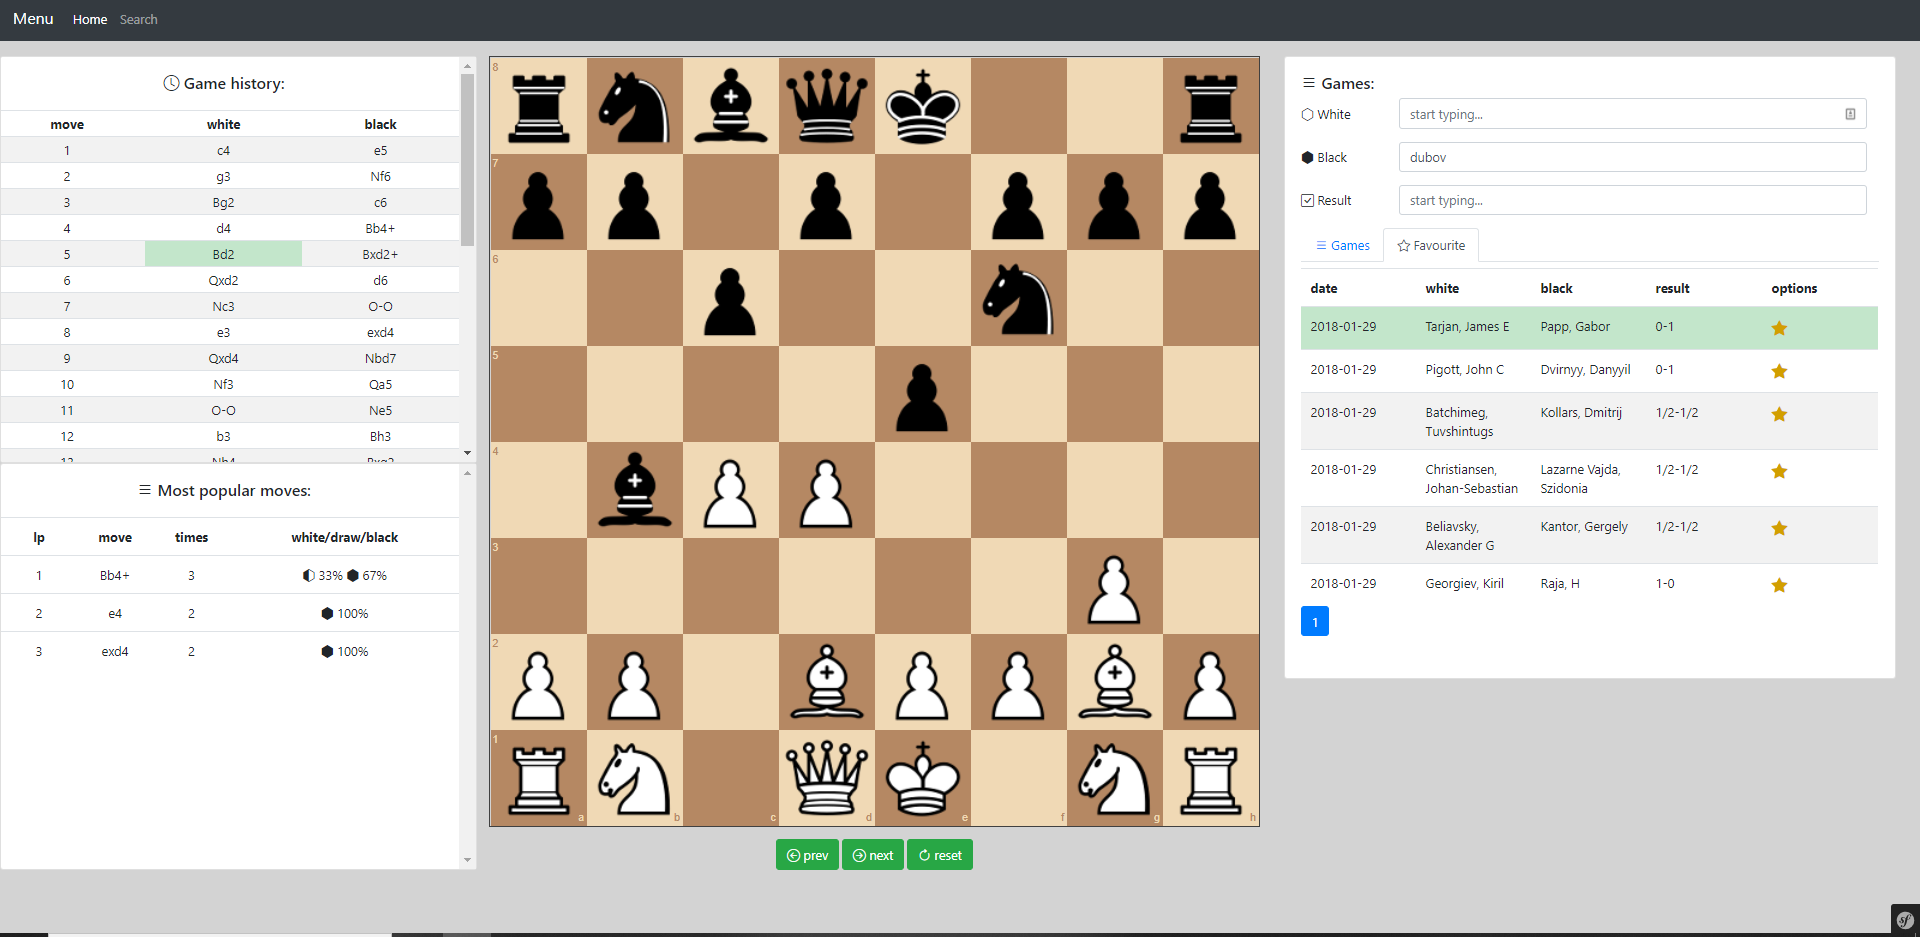
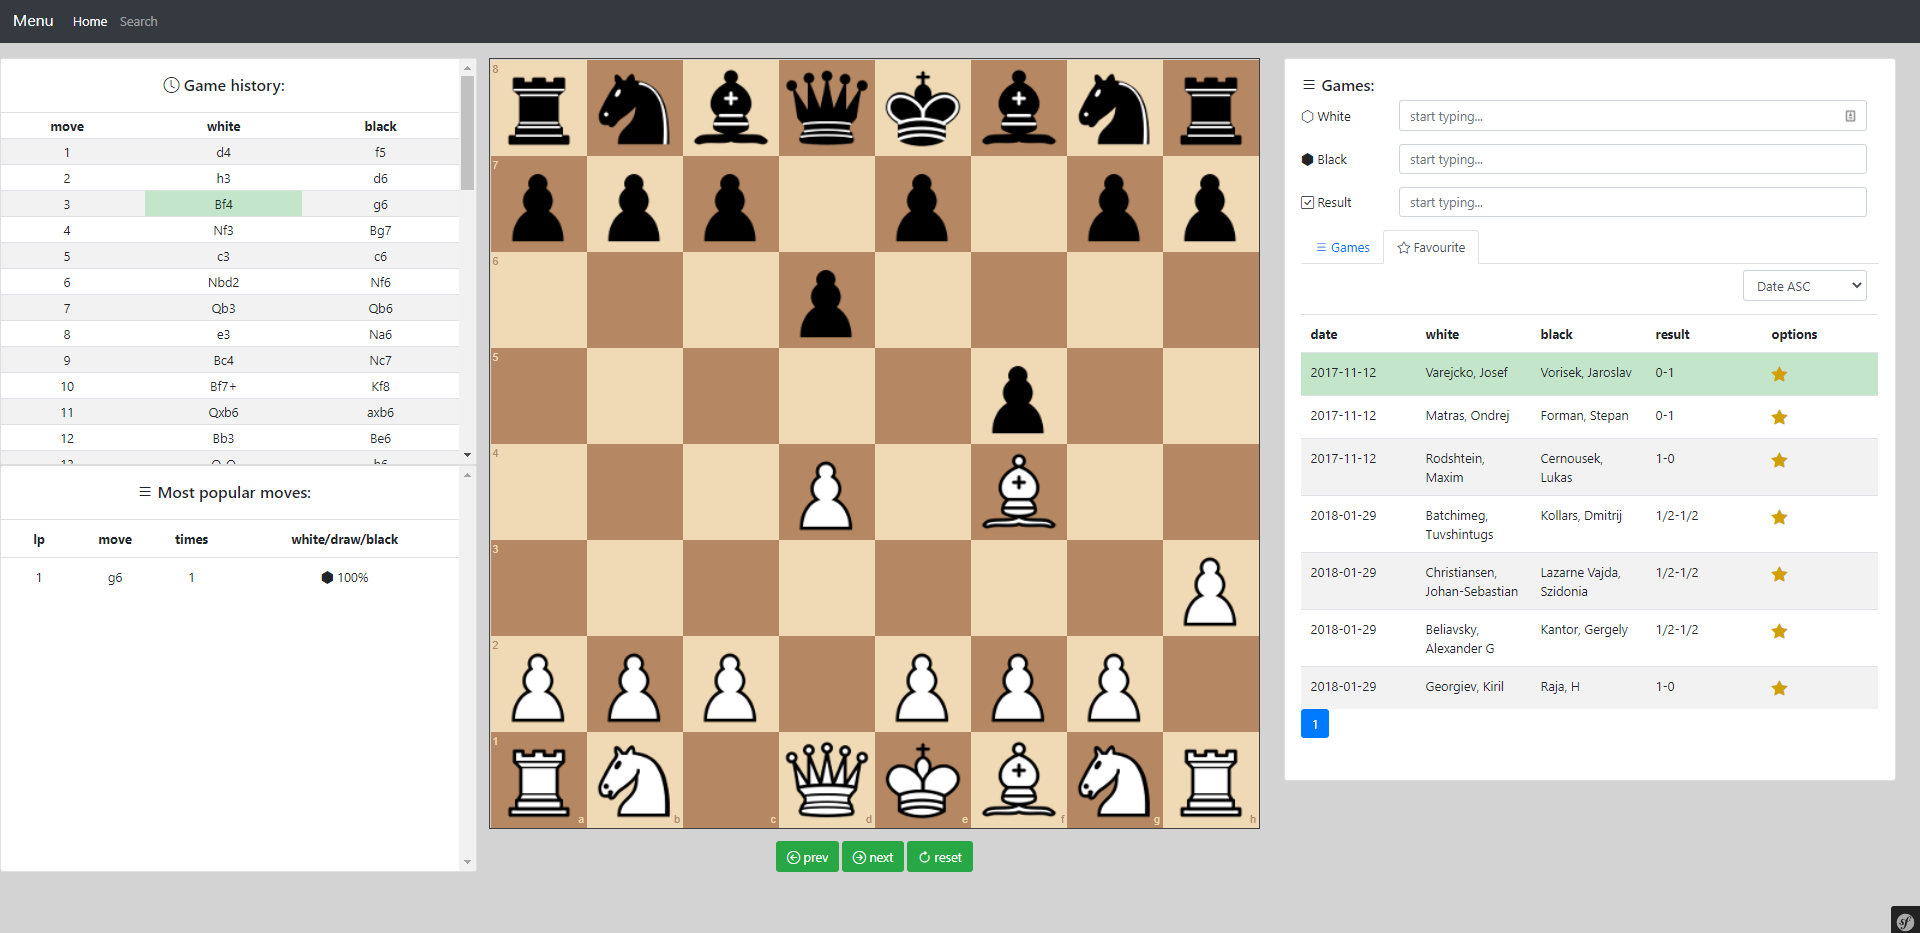
- added game sorting - fixed searching in favourite game tab

diff --git a/assets/js/store/index.js b/assets/js/store/index.js
@@ -9,7 +9,7 @@ Vue.use(Vuex);
 export async function fetchGames (opts) {
     Store.commit('setGamesAreLoading', true);
 
-    const games = await window.fetch(`/get_paginated_games?page=${opts.page}&limit=${opts.pageSize}&whitePlayerFilter=${opts.args.whitePlayerFilter}&blackPlayerFilter=${opts.args.blackPlayerFilter}&resultFilter=${opts.args.resultFilter}`)
+    const games = await window.fetch(`/get_paginated_games?page=${opts.page}&limit=${opts.pageSize}&whitePlayerFilter=${opts.args.whitePlayerFilter}&blackPlayerFilter=${opts.args.blackPlayerFilter}&resultFilter=${opts.args.resultFilter}&sort=${opts.args.sortOption}`)
         .then(response => {
             Store.commit('setGamesAreLoading', false);
             return response.json();
@@ -42,7 +42,7 @@ export async function fetchGames (opts) {
 export async function fetchFavouriteGames (opts) {
     Store.commit('setGamesAreLoading', true);
 
-    const games = await window.fetch(`/get_paginated_favourite_games?page=${opts.page}&limit=${opts.pageSize}`)
+    const games = await window.fetch(`/get_paginated_favourite_games?page=${opts.page}&limit=${opts.pageSize}&whitePlayerFilter=${opts.args.whitePlayerFilter}&blackPlayerFilter=${opts.args.blackPlayerFilter}&resultFilter=${opts.args.resultFilter}&sort=${opts.args.sortOption}`)
         .then(response => {
             Store.commit('setGamesAreLoading', false);
             return response.json();

diff --git a/assets/js/components/FavouriteGames.vue b/assets/js/components/FavouriteGames.vue
@@ -1,4 +1,7 @@
 <template>
+  <div>
+    <game-sort></game-sort>
+
   <table v-if="!isLoading && gamesFavDb.items.length > 0" class="table table-striped" style="table-layout: fixed;">
     <thead>
     <tr>
@@ -41,6 +44,7 @@
 
     </tbody>
   </table>
+  </div>
 </template>
 
 <script>
@@ -49,9 +53,11 @@ import {createInstance} from 'vuex-pagination'
 import GameListTable from "./GameListTable";
 import GameFilters from "./GameFilters";
 import {favouriteGames, games} from "../game";
+import GameSort from "./GameSort";
 
 export default {
   name: "GamesFavourite",
+  components: {GameSort},
   data: function () {
     return {
       activeFirst: true,
@@ -108,7 +114,16 @@ export default {
   computed: {
     gamesFavDb: createInstance('favouriteGames', {
       page: 1,
-      pageSize: 10
+      pageSize: 10,
+      args () {
+        let result = {};
+        result.whitePlayerFilter = this.$store.getters.whitePlayerFilter;
+        result.blackPlayerFilter = this.$store.getters.blackPlayerFilter;
+        result.resultFilter = this.$store.getters.resultFilter;
+        result.sortOption = this.$store.getters.sortOption;
+
+        return result;
+      }
     }),
     activeGameRow: function () {
       return this.$store.getters.activeGameRow;

diff --git a/assets/js/components/GameListTable.vue b/assets/js/components/GameListTable.vue
@@ -1,4 +1,7 @@
 <template>
+  <div>
+  <game-sort></game-sort>
+
   <table v-if="!isLoading && gamesDb.items.length > 0" class="table table-striped" style="table-layout: fixed;">
     <thead>
     <tr>
@@ -53,21 +56,25 @@
       <div class="spinner-grow text-success " role="status"></div>
     </div>
   </table>
+  </div>
 </template>
 
 <script>
 import axios from "axios";
 import {createInstance} from 'vuex-pagination'
 import {favouriteGames, games} from "../game";
+import GameSort from "./GameSort";
 
 export default {
   name: "GameListTable",
+  components: {GameSort},
   data: function () {
     return {
       eloWhiteFromFilter: '',
       eloWhiteToFilter: '',
       eloBlackFromFilter: '',
       eloBlackToFilter: '',
+      sortOption: 'name_asc',
       games: [],
       errors: [],
       activeFirst: true,
@@ -133,6 +140,7 @@ export default {
         result.whitePlayerFilter = this.$store.getters.whitePlayerFilter;
         result.blackPlayerFilter = this.$store.getters.blackPlayerFilter;
         result.resultFilter = this.$store.getters.resultFilter;
+        result.sortOption = this.$store.getters.sortOption;
 
         return result;
       }

diff --git a/assets/js/components/GameSort.vue b/assets/js/components/GameSort.vue
@@ -1,0 +1,47 @@
+<template>
+  <div class="row">
+    <div class="col-9">
+    </div>
+    <div class="col text-right">
+      <form class="form">
+        <div class="form-group">
+          <select v-model="sortOption" id="exampleInputName2" class="form-control">
+            <option value="date_asc">Date ASC</option>
+            <option value="date_desc">Date DESC</option>
+          </select>
+        </div>
+      </form>
+    </div>
+  </div>
+</template>
+
+<script>
+import axios from "axios";
+import {createInstance} from 'vuex-pagination'
+import GameListTable from "./GameListTable";
+
+export default {
+  name: "GameSort",
+  data: function () {
+    return {
+
+    }
+  },
+  methods: {
+
+  },
+  computed: {
+    sortOption: {
+      get () {
+        return this.$store.getters.sortOption;
+      },
+      set (value) {
+        this.$store.commit('setSortOption', value)
+      }
+    },
+  },
+  mounted () {
+
+  }
+};
+</script>

diff --git a/assets/js/store/home.module.js b/assets/js/store/home.module.js
@@ -18,6 +18,7 @@ const state = {
     whitePlayerFilter: '',
     blackPlayerFilter: '',
     resultFilter: '',
+    sortOption: 'date_desc',
 }
 
 const getters = {
@@ -34,6 +35,7 @@ const getters = {
     whitePlayerFilter: state => state.whitePlayerFilter,
     blackPlayerFilter: state => state.blackPlayerFilter,
     resultFilter: state => state.resultFilter,
+    sortOption: state => state.sortOption,
 }
 
 const mutations = {
@@ -117,6 +119,9 @@ const mutations = {
     },
     setResultFilter(state, filter) {
         state.resultFilter = filter;
+    },
+    setSortOption(state, option) {
+        state.sortOption = option;
     },
 }
 

diff --git a/src/Repository/GameRepository.php b/src/Repository/GameRepository.php
@@ -32,11 +32,11 @@ class GameRepository extends ServiceEntityRepository
         $em->clear();
     }
 
-    public function getPaginatedGames($page, $pageSize, $whitePlayer, $blackPlayer, $result) {
+    public function getPaginatedGames($page, $pageSize, $whitePlayer, $blackPlayer, $result, $sort) {
+        $query = $this->createQueryBuilder('g');
+
         if (!$whitePlayer && !$blackPlayer && !$result) {
-            $query = $this->createQueryBuilder('g')
-                ->orderBy('g.date', 'DESC')
-                ->getQuery();
+
         }
         else
         {
@@ -54,10 +54,12 @@ class GameRepository extends ServiceEntityRepository
                 $query->andWhere('g.result = :result')
                 ->setParameter('result', $result);
             }
-
-            $query->orderBy('g.date', 'DESC')
-                ->getQuery();
         }
+
+        if ($sort == 'date_asc') $query->orderBy('g.date', 'ASC');
+        if ($sort == 'date_desc') $query->orderBy('g.date', 'DESC');
+
+        $query->getQuery();
 
         $paginator = new \Doctrine\ORM\Tools\Pagination\Paginator($query);
 
@@ -72,13 +74,34 @@ class GameRepository extends ServiceEntityRepository
         return $paginator;
     }
 
-    public function getPaginatedFavouriteGames($page, $pageSize) {
+    public function getPaginatedFavouriteGames($page, $pageSize, $whitePlayer, $blackPlayer, $result, $sort) {
         $query = $this->createQueryBuilder('g');
         $query->andWhere('g.favourite = :fav')
             ->setParameter('fav', 1);
 
-        $query->orderBy('g.date', 'DESC')
-            ->getQuery();
+        if (!$whitePlayer && !$blackPlayer && !$result) {
+
+        }
+        else
+        {
+            if ($whitePlayer) {
+                $query->andWhere('g.white LIKE :white')
+                    ->setParameter('white', '%'.$whitePlayer.'%');
+            }
+            if ($blackPlayer) {
+                $query->andWhere('g.black LIKE :black')
+                    ->setParameter('black', '%'.$blackPlayer.'%');
+            }
+            if ($result) {
+                $query->andWhere('g.result = :result')
+                    ->setParameter('result', $result);
+            }
+        }
+
+        if ($sort == 'date_asc') $query->orderBy('g.date', 'ASC');
+        if ($sort == 'date_desc') $query->orderBy('g.date', 'DESC');
+
+        $query->getQuery();
 
         $paginator = new \Doctrine\ORM\Tools\Pagination\Paginator($query);
 

diff --git a/src/Service/GameService.php b/src/Service/GameService.php
@@ -33,12 +33,10 @@ class GameService
         $this->gameRepository->flush();
     }
 
-    public function getGamesInfoRange($page, $pageSize = 10, $whitePlayer, $blackPlayer, $result)
+    public function getGamesInfoRange($page, $pageSize = 10, $whitePlayer, $blackPlayer, $result, $sort)
     {
-        $this->gameRepository->clear();
-
         $games = [];
-        $items = $this->gameRepository->getPaginatedGames($page, $pageSize, $whitePlayer, $blackPlayer, $result);
+        $items = $this->gameRepository->getPaginatedGames($page, $pageSize, $whitePlayer, $blackPlayer, $result, $sort);
 
         foreach ($items as $pageItem) {
             $games[] = [
@@ -57,10 +55,10 @@ class GameService
         return ['items' => $games, 'total' => count($games)];
     }
 
-    public function getFavouriteGamesInfoRange($page, $pageSize = 10)
+    public function getFavouriteGamesInfoRange($page, $pageSize = 10, $whitePlayer, $blackPlayer, $result, $sort)
     {
         $games = [];
-        $items = $this->gameRepository->getPaginatedFavouriteGames($page, $pageSize);
+        $items = $this->gameRepository->getPaginatedFavouriteGames($page, $pageSize, $whitePlayer, $blackPlayer, $result, $sort);
 
         foreach ($items as $pageItem) {
             $games[] = [

diff --git a/src/Controller/ApiController.php b/src/Controller/ApiController.php
@@ -58,8 +58,9 @@ class ApiController extends AbstractController
         $whitePlayer = $request->query->get('whitePlayerFilter');
         $blackPlayer = $request->query->get('blackPlayerFilter');
         $result = $request->query->get('resultFilter');
+        $sort = $request->query->get('sort');
 
-        $result = $this->gameService->getGamesInfoRange($page, $limit, $whitePlayer, $blackPlayer, $result);
+        $result = $this->gameService->getGamesInfoRange($page, $limit, $whitePlayer, $blackPlayer, $result, $sort);
 
         return new JsonResponse([$result]);
     }
@@ -68,8 +69,12 @@ class ApiController extends AbstractController
     {
         $page = $request->query->get('page');
         $limit = $request->query->get('limit');
+        $whitePlayer = $request->query->get('whitePlayerFilter');
+        $blackPlayer = $request->query->get('blackPlayerFilter');
+        $result = $request->query->get('resultFilter');
+        $sort = $request->query->get('sort');
 
-        $result = $this->gameService->getFavouriteGamesInfoRange($page, $limit);
+        $result = $this->gameService->getFavouriteGamesInfoRange($page, $limit, $whitePlayer, $blackPlayer, $result, $sort);
 
         return new JsonResponse([$result]);
     }

diff --git a/README.md b/README.md
@@ -33,6 +33,7 @@ Project is created with:
 * playing moves from the most popular moves in the position (useful for opening preparation)
 * basic filters (white/black player, game result)
 * favourite games
+* game sorting
 
 ## To do
 * games searching
